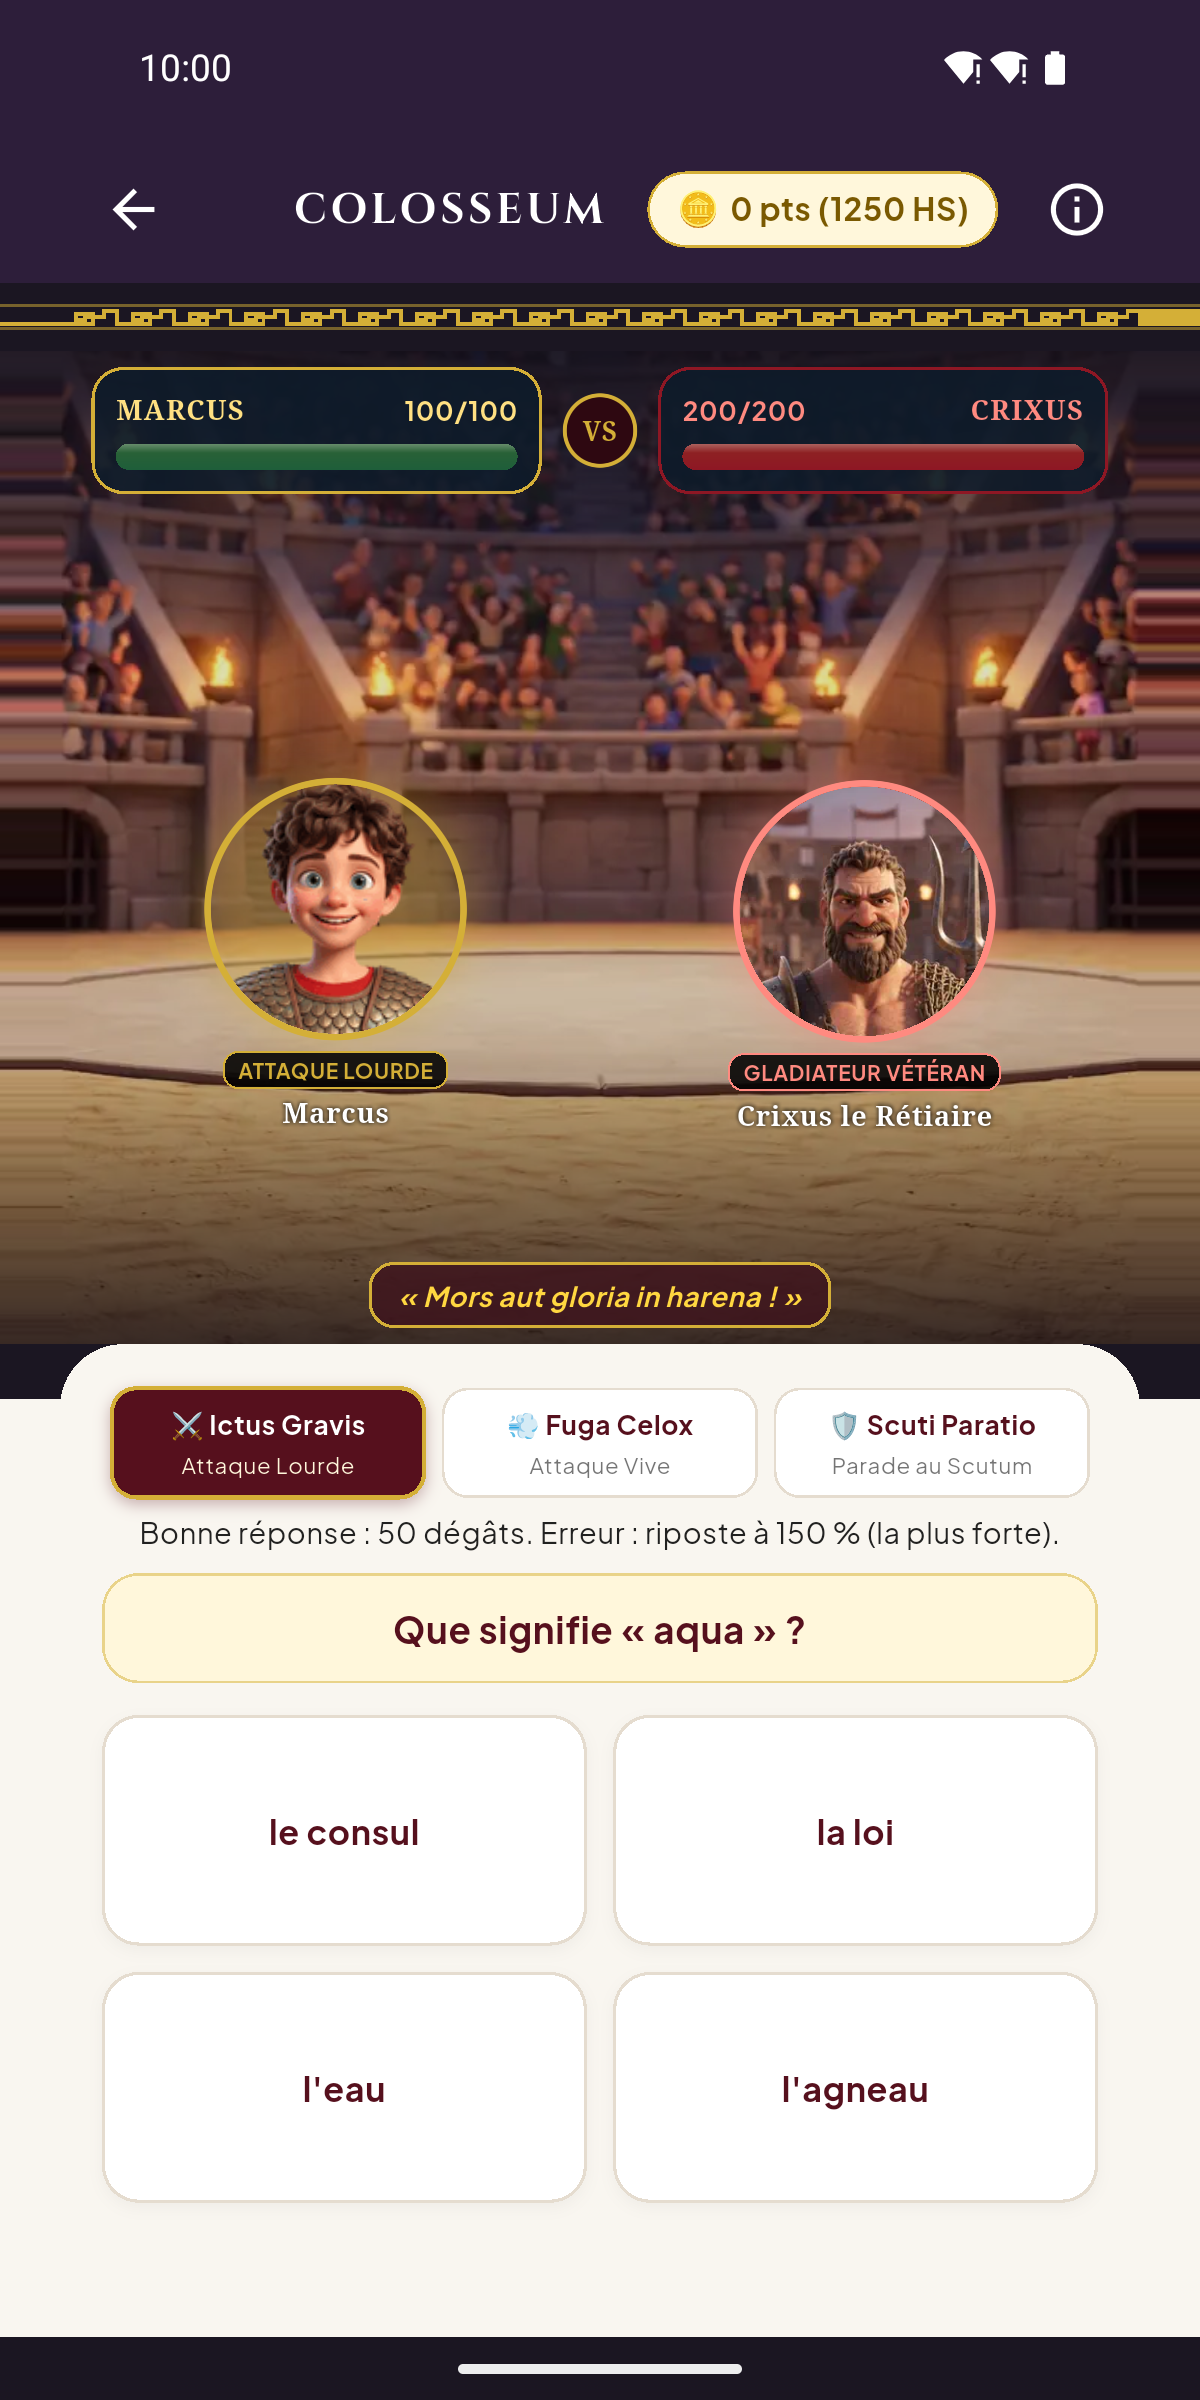
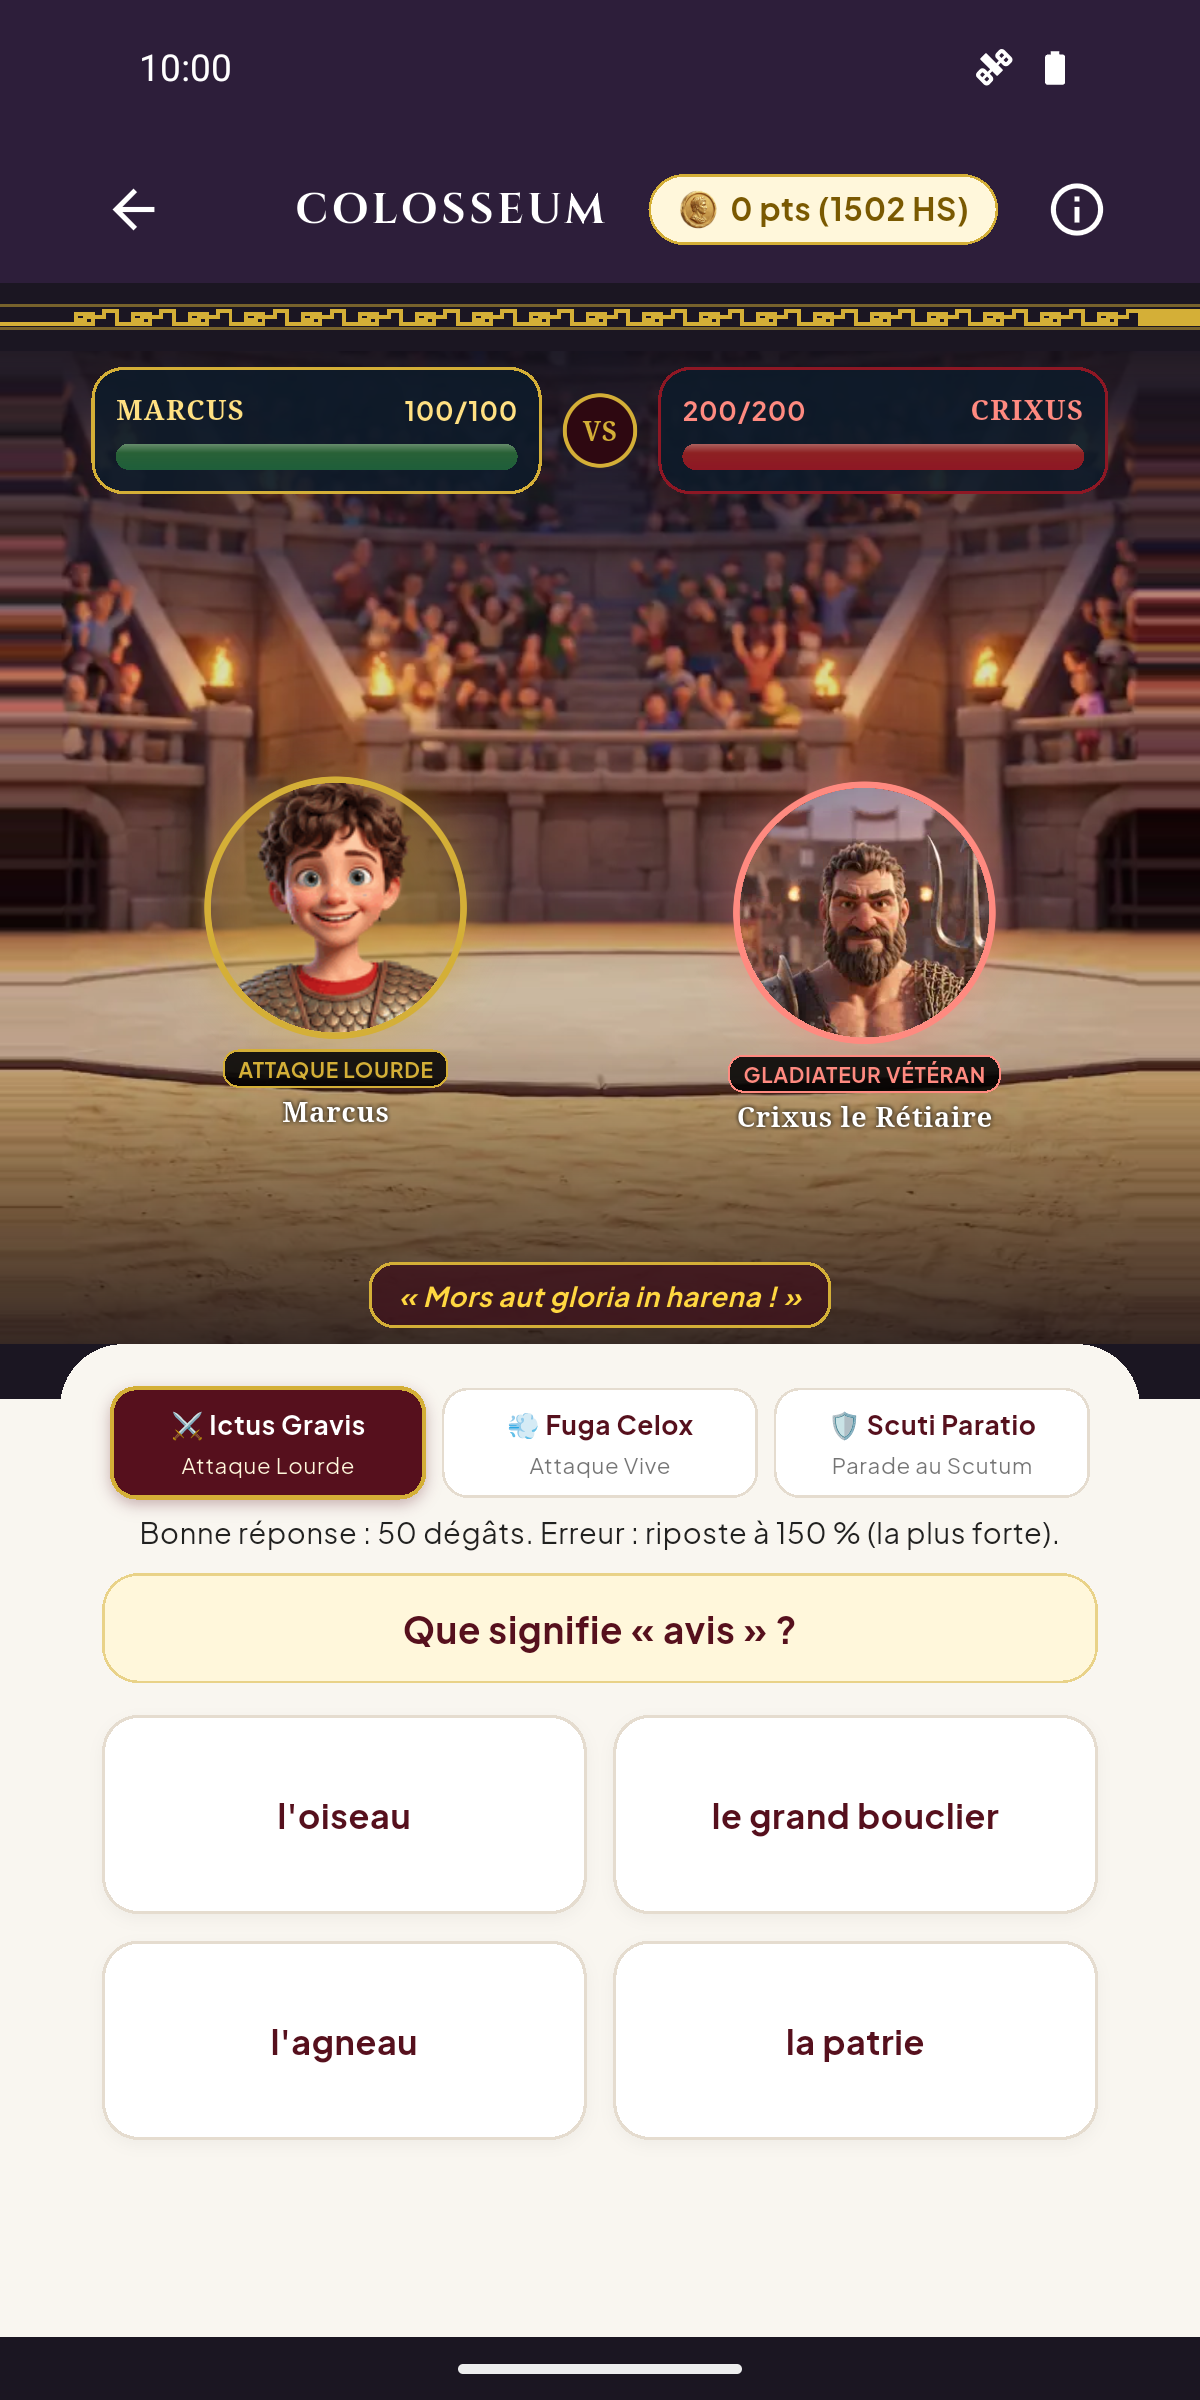
Store: captures refaites (Colisée, album, Cléopâtre) ; texte de l'album à jour

diff --git a/ludus_latinus_mobile/lib/l10n/app_localizations_fr.dart b/ludus_latinus_mobile/lib/l10n/app_localizations_fr.dart
@@ -1555,7 +1555,8 @@ class AppLocalizationsFr extends AppLocalizations {
   String get albumHeaderLabel => 'ALBUM DES SUCCÈS';
 
   @override
-  String get albumHeaderHint => 'Chaque succès te donne une carte.';
+  String get albumHeaderHint =>
+      'Chaque succès te donne une carte. D\'autres s\'achètent à la Taberna.';
 
   @override
   String get albumFamilyHeroes => 'Héros';

diff --git a/ludus_latinus_mobile/lib/l10n/app_localizations.dart b/ludus_latinus_mobile/lib/l10n/app_localizations.dart
@@ -2692,7 +2692,7 @@ abstract class AppLocalizations {
   /// No description provided for @albumHeaderHint.
   ///
   /// In fr, this message translates to:
-  /// **'Chaque succès te donne une carte.'**
+  /// **'Chaque succès te donne une carte. D\'autres s\'achètent à la Taberna.'**
   String get albumHeaderHint;
 
   /// No description provided for @albumFamilyHeroes.

diff --git a/AGENTS.md b/AGENTS.md
@@ -1231,4 +1231,4 @@ qu'un compte rendu complet et faux.
 
 - **Multiprofil (25/10/2026, choix de Cédric : 4 élèves au plus, pas de code, changement par « Qui joue ? » au démarrage et dans les Paramètres)** : `StorageService` tient un fichier par élève (`ludus_latinus_save.json` pour le premier, id `defaut`, donc aucune migration ; `ludus_latinus_save_<id>.json` pour les autres) et un index `ludus_latinus_profils.json` (actif, liste). Dossier imposable pour les tests (`StorageService(dossier:)`). Dépôt : `nombreDeProfils`, `peutAjouterProfil`, `profilsDeLAppareil`, `changerDeProfil`, `ajouterProfil`, `supprimerProfil` (vident les annonces en attente et recalent le rappel), `premiereLeconAOuvrir` (l'accueil ouvre la leçon 1 d'un nouvel élève). Écran `lib/ui/features/settings/choix_profil_screen.dart` ; section « Élèves » des Paramètres (changer, supprimer avec confirmation par le prénom). L'import d'une sauvegarde remplit l'élève actif. Test `test/multiprofil_test.dart`. Vérifié sur l'émulateur (ajout, démarrage, changement, suppression). Carte « Taberna Romana » de l'accueil : bourse dessinée à la place de 🛍.
 
-- **Album, série 2 (29-30/10/2026, validée par Cédric après le retour de Clovis)** : 34 cartes de plus, dont Rémus et Jules César demandés par Clovis (César : exception au « pas de doublon avec le Panthéon »), et Cléopâtre en second adversaire de la Bataille. Catalogue : `docs/propositions/album_serie2.md`. Données (source unique) : `content/album_serie2.py` (`CARTES_SERIE2`, `PRIX_PAR_RARETE`, `ADVERSAIRES`) ; anecdotes et prompts générés dans `docs/propositions/illustrations_album_serie2.md` par `scripts/docs_album_serie2.py`. Exportées et codées le 30/10/2026 : album 66 cartes (`album_mobile.py` assemble les deux séries ; `CarteAlbum.prix` pour les 16 cartes à vendre), succès par compteurs (`bataille_victoires` = Crassus, `bataille_victoires_cleopatre`, `paires_victoires`, `mots_du_jour_trouves`, `record:paires`), `GameRepository.acheterCarte` (sans prime), onglet Cartes de la Taberna (`BoutiqueModal.ouvrirCartes`), tuile à prix dans l'album, `Adversaire` et `mainDeCleopatre` (bataille_logique), `_TuileAdversaire`, portraits `assets/images/bataille/`, vidéo `bataille_cleopatre.mp4` recompressée avec l'accord de Cédric (4,6 -> 1,2 Mo, 720x1280, crf 25, PSNR 43 dB, original dans « gemini ludus »). Test `test/album_serie2_test.dart`. Fortuna refaite le 30/10 (gouvernail antique ; livrée en 9:16, recadrée en 3:4, haut 50 à 1079). Reste : devises à faire relire par le professeur. Gains prévus : victoires contre Crassus (1, 2, 3, 5, 10, 20, 35, 50), contre Cléopâtre (1, 5, 7, 10 ; ouverte à 5 victoires contre Crassus, pose une rareté au-dessus), Paires éclair (1 et 10 victoires, record de 30 s), Mot du jour (1, 7, 30 mots), 16 achats à prix fixe à la Taberna (80/150/300/600 HS, sans prime de carte gagnée, sans tirage au hasard).
+- **Album, série 2 (29-30/10/2026, validée par Cédric après le retour de Clovis)** : 34 cartes de plus, dont Rémus et Jules César demandés par Clovis (César : exception au « pas de doublon avec le Panthéon »), et Cléopâtre en second adversaire de la Bataille. Catalogue : `docs/propositions/album_serie2.md`. Données (source unique) : `content/album_serie2.py` (`CARTES_SERIE2`, `PRIX_PAR_RARETE`, `ADVERSAIRES`) ; anecdotes et prompts générés dans `docs/propositions/illustrations_album_serie2.md` par `scripts/docs_album_serie2.py`. Exportées et codées le 30/10/2026 : album 66 cartes (`album_mobile.py` assemble les deux séries ; `CarteAlbum.prix` pour les 16 cartes à vendre), succès par compteurs (`bataille_victoires` = Crassus, `bataille_victoires_cleopatre`, `paires_victoires`, `mots_du_jour_trouves`, `record:paires`), `GameRepository.acheterCarte` (sans prime), onglet Cartes de la Taberna (`BoutiqueModal.ouvrirCartes`), tuile à prix dans l'album, `Adversaire` et `mainDeCleopatre` (bataille_logique), `_TuileAdversaire`, portraits `assets/images/bataille/`, vidéo `bataille_cleopatre.mp4` recompressée avec l'accord de Cédric (4,6 -> 1,2 Mo, 720x1280, crf 25, PSNR 43 dB, original dans « gemini ludus »). Test `test/album_serie2_test.dart`. Fortuna refaite le 30/10 (gouvernail antique ; livrée en 9:16, recadrée en 3:4, haut 50 à 1079). Captures du Store refaites le 30/10 (Colisée, album, Bataille contre Cléopâtre ; tablette : aussi le Ludi). Reste : devises à faire relire par le professeur. Gains prévus : victoires contre Crassus (1, 2, 3, 5, 10, 20, 35, 50), contre Cléopâtre (1, 5, 7, 10 ; ouverte à 5 victoires contre Crassus, pose une rareté au-dessus), Paires éclair (1 et 10 victoires, record de 30 s), Mot du jour (1, 7, 30 mots), 16 achats à prix fixe à la Taberna (80/150/300/600 HS, sans prime de carte gagnée, sans tirage au hasard).

diff --git a/docs/publication/fiche_store.md b/docs/publication/fiche_store.md
@@ -66,8 +66,8 @@ Ludus Latinus est édité par Icare & Dédale.
 |---|---|---|
 | Icône | 512 × 512, PNG | prête : `store/icone_play_store_512.png` |
 | Image de présentation | 1024 × 500, JPG ou PNG | projet à valider : `store/presentation_1024x500.png` (illustration m21-03, script `scripts/assets/presentation_store.py`) |
-| Captures téléphone | 2 à 8, côté long au plus 2 fois le court | 8 captures 1200 × 2400 dans `store/captures/`, prises sur une sauvegarde de démonstration : leçon, Via Appia, duel, Paires éclair, Mot du jour, album, Bataille, page des professeurs (refaites le 25/10/2026, script `scripts/assets/captures_store.py`) |
-| Captures tablette | facultatives, 16:9 | 8 captures 2560 × 1440 (tablette 10 pouces, paysage) dans `store/captures_tablette/` : leçon, Via Appia, duel, Ludi, Paires éclair, album, Bataille, page des professeurs (refaites le 25/10/2026 : capture 2560 × 1600 recadrée, barre d'état et barre de gestes retirées) |
+| Captures téléphone | 2 à 8, côté long au plus 2 fois le court | 8 captures 1200 × 2400 dans `store/captures/`, prises sur une sauvegarde de démonstration : leçon, Via Appia, duel, Paires éclair, Mot du jour, album, Bataille, page des professeurs (refaites le 30/10/2026, script `scripts/assets/captures_store.py`) |
+| Captures tablette | facultatives, 16:9 | 8 captures 2560 × 1440 (tablette 10 pouces, paysage) dans `store/captures_tablette/` : leçon, Via Appia, duel, Ludi, Paires éclair, album, Bataille, page des professeurs (refaites le 30/10/2026 : capture 2560 × 1600 recadrée, barre d'état et barre de gestes retirées) |
 
 ## À revoir avant la mise en production
 
